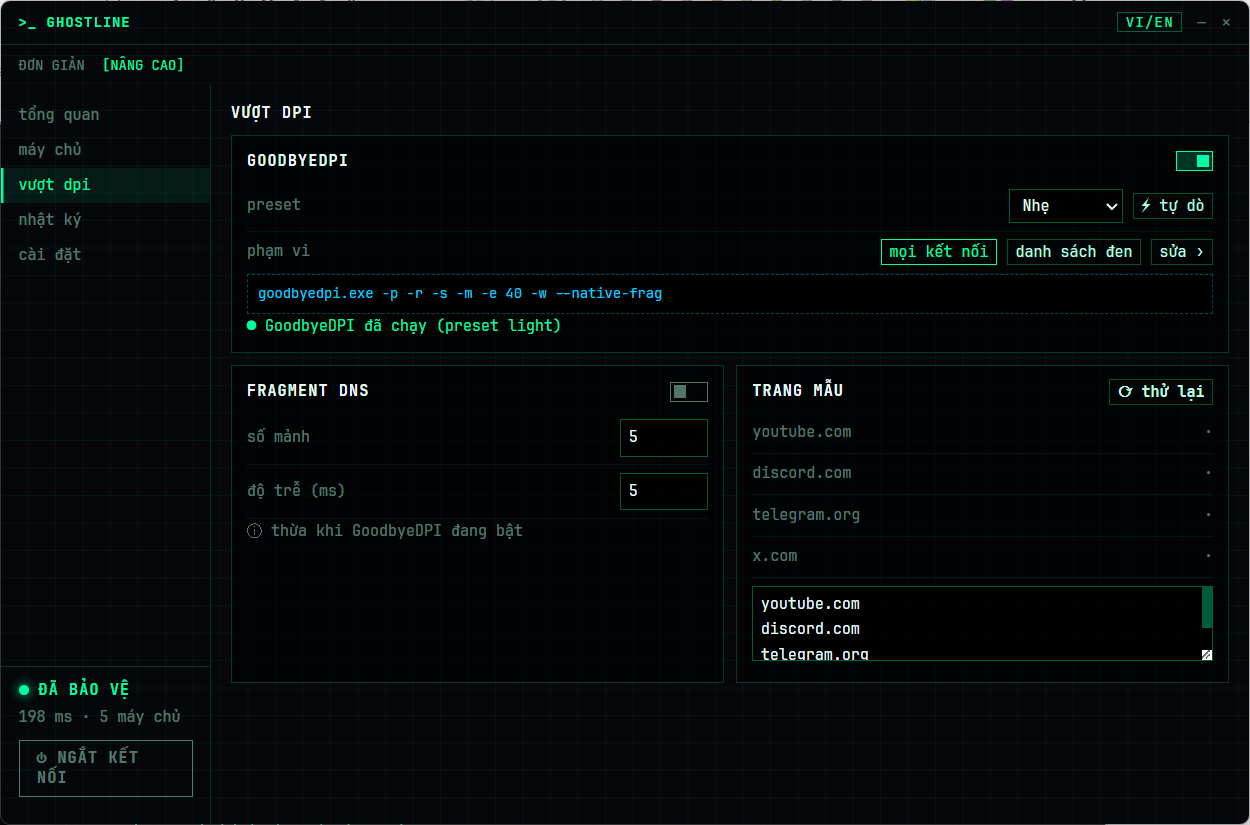
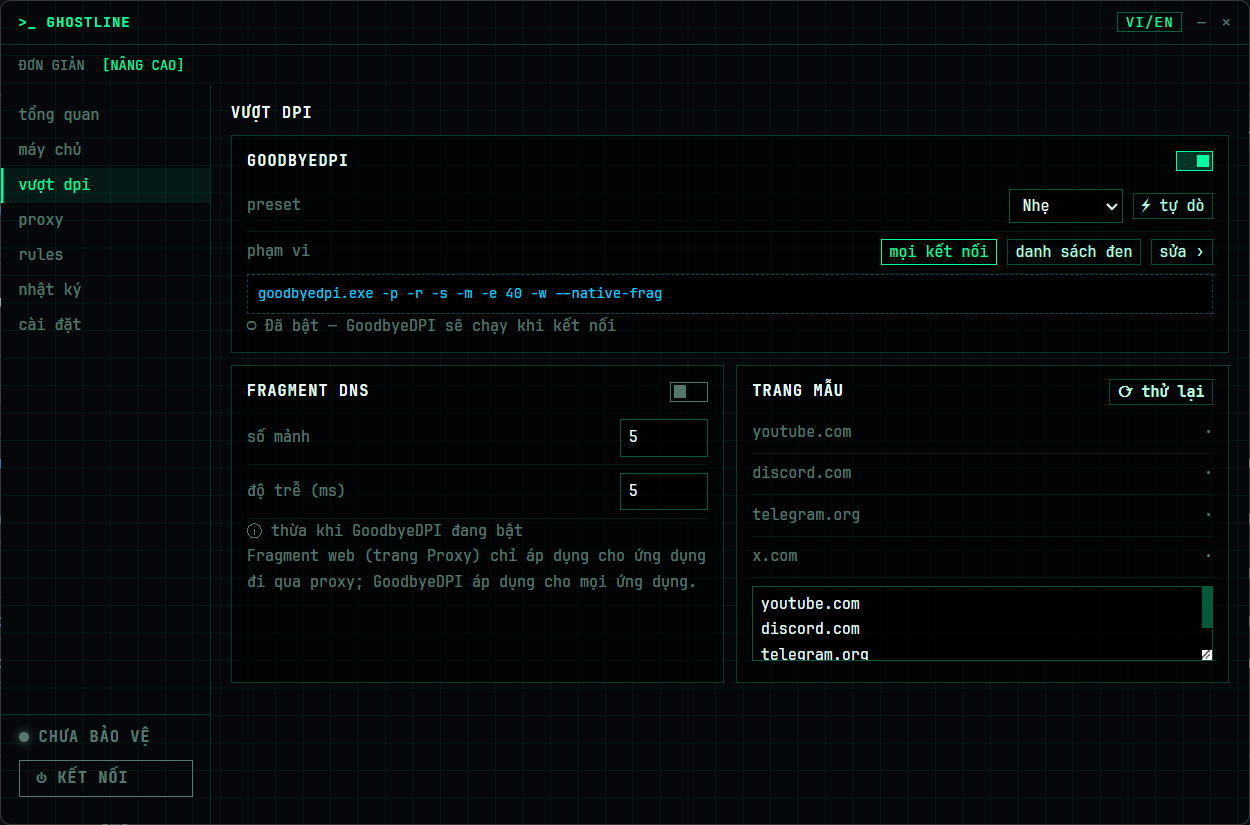
docs: v0.2.0 screenshots (EN + VI), add proxy and rules pages

diff --git a/docs/huong-dan-su-dung.md b/docs/huong-dan-su-dung.md
@@ -191,6 +191,8 @@ Ghi lại các sự kiện: kết nối, đổi máy chủ, bật/tắt GoodbyeD
 
 ### 4.6. Proxy
 
+![Proxy](screenshots/proxy-vi.png)
+
 Ghostline có thể chạy một proxy cục bộ trên một cổng (mặc định `8080`), hiểu được **HTTP, HTTPS (CONNECT) và SOCKS4/4a/5**. Proxy bật và tắt cùng nút **Connect**, và luôn phân giải tên miền qua DNS mã hoá của Ghostline nên không bao giờ rò DNS plain.
 
 | Cài đặt | Ý nghĩa |
@@ -214,6 +216,8 @@ Nếu thống kê có kết nối *bị chặn dù đã fragment*, mạng đó c
 **Upstream proxy** (SOCKS5 hoặc HTTP, có thể kèm user/mật khẩu) cho phép rules đẩy một số trang qua proxy khác, ví dụ Tor. Mật khẩu được mã hoá bằng DPAPI của Windows. Bấm **kiểm tra** để thử.
 
 ### 4.7. Rules và danh sách
+
+![Rules và danh sách](screenshots/rules-vi.png)
 
 Rules quyết định cách xử lý một tên miền, cho cả DNS lẫn proxy. Rule đầu tiên khớp được dùng; nếu không rule nào khớp thì xét các danh sách theo thứ tự.
 

diff --git a/docs/user-guide.md b/docs/user-guide.md
@@ -191,6 +191,8 @@ Records events: connecting, switching servers, GoodbyeDPI on/off, errors.
 
 ### 4.6. Proxy
 
+![Proxy](screenshots/proxy-en.png)
+
 Ghostline can run a local proxy on one port (default `8080`) that speaks **HTTP, HTTPS (CONNECT) and SOCKS4/4a/5**. It starts and stops with **Connect**, and it always resolves names through Ghostline's encrypted DNS, so it never leaks plain DNS.
 
 | Setting | Meaning |
@@ -214,6 +216,8 @@ If the statistics show connections *blocked even fragmented*, that network needs
 **Upstream proxies** (SOCKS5 or HTTP, with optional user/password) let rules send some sites through another proxy such as Tor. Passwords are encrypted with Windows DPAPI. Use **test** to check one.
 
 ### 4.7. Rules and lists
+
+![Rules and lists](screenshots/rules-en.png)
 
 Rules decide what happens to a domain, both for DNS and for the proxy. The first matching rule wins; if none matches, lists are checked in order.
 

diff --git a/README.md b/README.md
@@ -62,6 +62,8 @@ Ghostline runs a local DNS server on `127.0.0.1` / `::1`, points every network a
 | Servers | DPI bypass |
 | --- | --- |
 | ![Servers](docs/screenshots/servers-en.png) | ![DPI bypass](docs/screenshots/dpi-en.png) |
+| **Proxy** | **Rules and lists** |
+| ![Proxy](docs/screenshots/proxy-en.png) | ![Rules](docs/screenshots/rules-en.png) |
 | **Logs** | **Settings** |
 | ![Logs](docs/screenshots/logs-en.png) | ![Settings](docs/screenshots/settings-en.png) |
 
